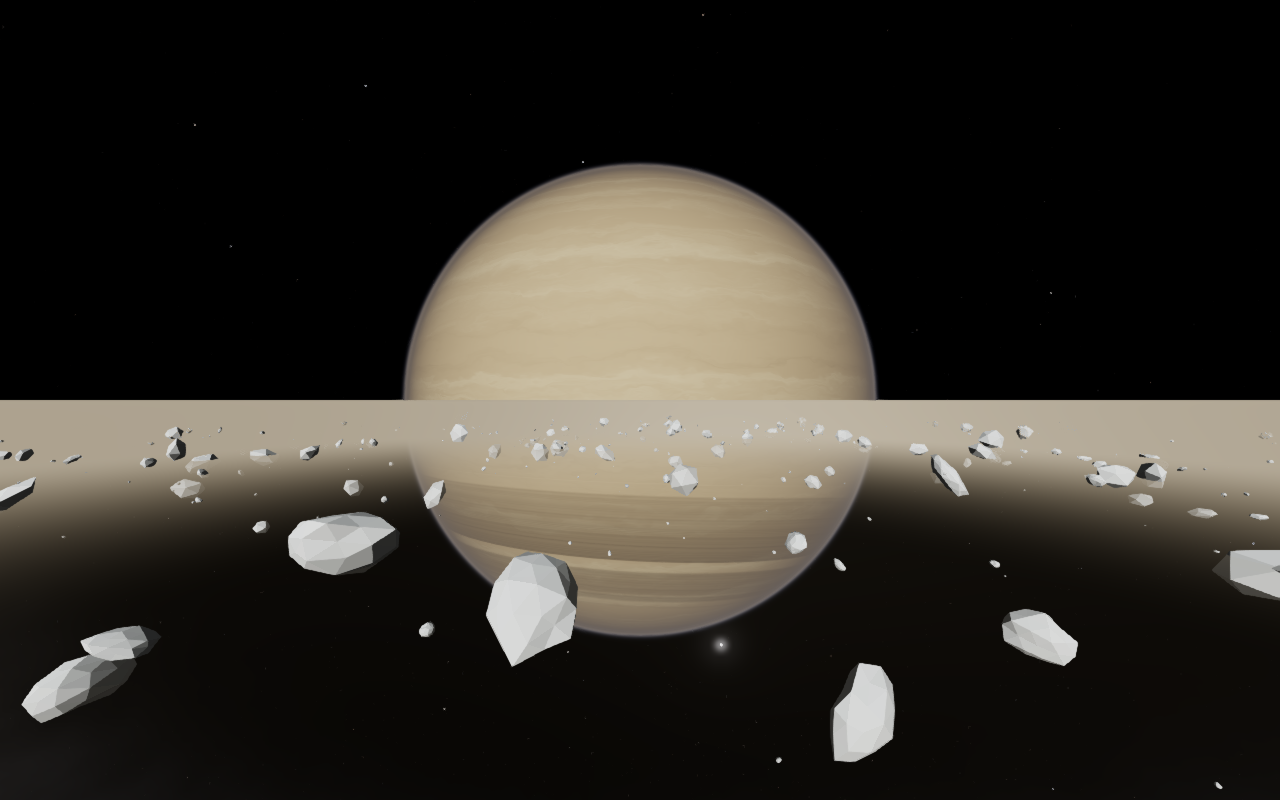
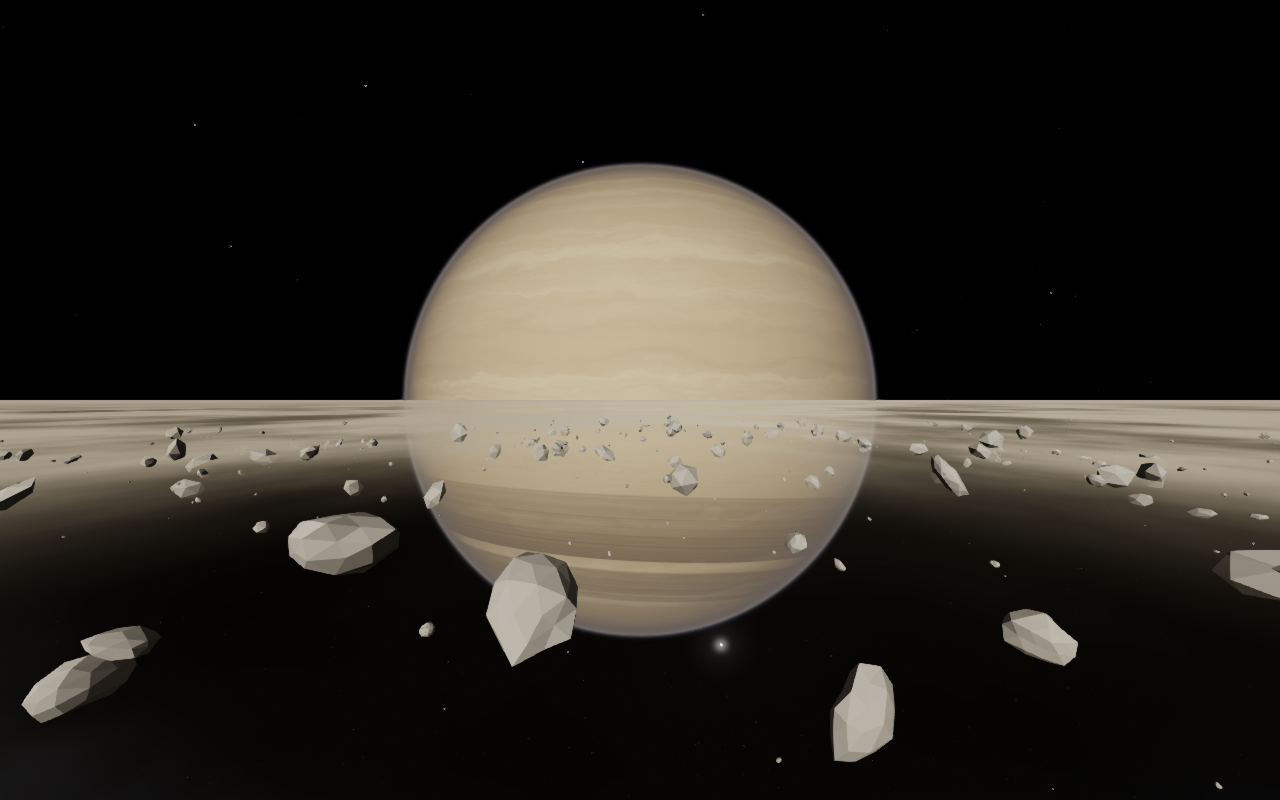
Tint ring particles to match the rings' dusty ice

diff --git a/src/render/planet/RingParticles.ts b/src/render/planet/RingParticles.ts
@@ -88,8 +88,9 @@ export class RingParticles {
           float diffuse = max(dot(normalize(vNormal), uSunDir), 0.0);
           float planetPhase = 0.5 + 0.5 * dot(normalize(rel), uSunDir);
           float shine = 0.10 * pow(uPlanetRadius / length(rel), 2.0) * planetPhase;
-          vec3 ice = mix(vec3(0.38, 0.32, 0.24), vec3(0.82, 0.88, 0.91), 0.7 + 0.2 * vNormal.z);
-          gl_FragColor = vec4(ice * uSunColor * ((diffuse * 0.8 + forward * 0.35) * shadow + shine + 0.006) / 3.14159265, 1.0);
+          // Water ice dusted with the rings' reddish-tan contaminants (matches the ring texture tint).
+          vec3 ice = mix(vec3(0.30, 0.26, 0.21), vec3(0.74, 0.69, 0.60), 0.45 + 0.25 * vNormal.z);
+          gl_FragColor = vec4(ice * uSunColor * ((diffuse * 0.6 + forward * 0.35) * shadow + shine + 0.006) / 3.14159265, 1.0);
         }`,
     });
     const capacity = (this.reach * 2 + 1) ** 2 * this.chunksPerCell;
